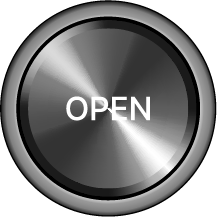
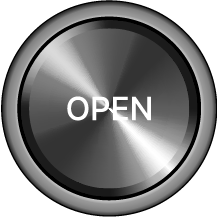
add project descriptions, multi-select industries/tools filtering, and expand project library
- Project.industry -> industries: string[] and new tools: string[] field,
  both wired into ProjectBrowser's filters (multi-select, any-match) and
  displayed as pills on RecordCrate cards and the hover preview
- Add a Tools & Process filter section alongside Industry and Year
- Wire the description field through instead of hardcoded placeholder text
- Fix 1px export misalignment on button-open-2/3/4.png (originals kept in
  public/images/nav buttons/_backup/)
- Expand data/projects.ts with additional project entries

diff --git a/components/home/ProjectBrowser.tsx b/components/home/ProjectBrowser.tsx
@@ -8,29 +8,44 @@ import { useBandLayout, GAP } from "./useBandLayout";
 export default function ProjectBrowser() {
   const [search, setSearch] = useState("");
   const [industry, setIndustry] = useState<string[]>([]);
+  const [tool, setTool] = useState<string[]>([]);
   const [year, setYear] = useState<number[]>([]);
   const [hoveredProject, setHoveredProject] = useState<Project | null>(null);
   const layout = useBandLayout();
 
-  const industries = useMemo(() => Array.from(new Set(projects.map((p) => p.industry))), []);
+  const industries = useMemo(
+    () => Array.from(new Set(projects.flatMap((p) => p.industries))),
+    []
+  );
+  // Tools/software/processes is the one filter category expected to grow
+  // long as more projects are added — same flex-wrap pill treatment as
+  // Industry, which already scales to any number of options by wrapping to
+  // more rows rather than needing a different widget.
+  const tools = useMemo(() => Array.from(new Set(projects.flatMap((p) => p.tools))), []);
   const years = useMemo(
     () => Array.from(new Set(projects.map((p) => p.year))).sort((a, b) => b - a),
     []
   );
 
-  const filtersActive = search.trim() !== "" || industry.length > 0 || year.length > 0;
+  const filtersActive =
+    search.trim() !== "" || industry.length > 0 || tool.length > 0 || year.length > 0;
 
   const matchedProjects = projects.filter((p) => {
     const matchesSearch = p.title.toLowerCase().includes(search.toLowerCase());
-    const matchesIndustry = industry.length === 0 || industry.includes(p.industry);
+    const matchesIndustry =
+      industry.length === 0 || industry.some((sel) => p.industries.includes(sel));
+    const matchesTool = tool.length === 0 || tool.some((sel) => p.tools.includes(sel));
     const matchesYear = year.length === 0 || year.includes(p.year);
-    return matchesSearch && matchesIndustry && matchesYear;
+    return matchesSearch && matchesIndustry && matchesTool && matchesYear;
   });
 
   const matchedSlugs = new Set(matchedProjects.map((p) => p.slug));
 
   const toggleIndustry = (ind: string) =>
     setIndustry((prev) => (prev.includes(ind) ? prev.filter((i) => i !== ind) : [...prev, ind]));
+
+  const toggleTool = (t: string) =>
+    setTool((prev) => (prev.includes(t) ? prev.filter((v) => v !== t) : [...prev, t]));
 
   const toggleYear = (y: number) =>
     setYear((prev) => (prev.includes(y) ? prev.filter((v) => v !== y) : [...prev, y]));
@@ -97,6 +112,25 @@ export default function ProjectBrowser() {
           </div>
 
           <div className="flex flex-col gap-2">
+            <p className="text-xs uppercase tracking-widest text-white/50">Tools &amp; Process</p>
+            <div className="flex flex-wrap gap-2">
+              {tools.map((t) => (
+                <button
+                  key={t}
+                  onClick={() => toggleTool(t)}
+                  className={`px-3 py-1 rounded-full text-sm border ${
+                    tool.includes(t)
+                      ? "bg-white text-black border-white"
+                      : "border-white/30 text-white/70"
+                  }`}
+                >
+                  {t}
+                </button>
+              ))}
+            </div>
+          </div>
+
+          <div className="flex flex-col gap-2">
             <p className="text-xs uppercase tracking-widest text-white/50">Year</p>
             <div className="flex flex-wrap gap-2">
               {years.map((y) => (
@@ -137,12 +171,17 @@ export default function ProjectBrowser() {
               <>
                 <p className="text-xl font-medium text-white">{hoveredProject.title}</p>
                 <p className="mt-2 text-sm text-zinc-400 leading-relaxed">
-                  Add a short project description here.
+                  {hoveredProject.description}
                 </p>
                 <div className="mt-3 flex flex-wrap gap-2">
-                  <span className="px-2 py-0.5 rounded-full border border-white/30 text-xs text-white/70">
-                    {hoveredProject.industry}
-                  </span>
+                  {hoveredProject.industries.map((ind) => (
+                    <span
+                      key={ind}
+                      className="px-2 py-0.5 rounded-full border border-white/30 text-xs text-white/70"
+                    >
+                      {ind}
+                    </span>
+                  ))}
                   <span className="px-2 py-0.5 rounded-full border border-white/30 text-xs text-white/70">
                     {hoveredProject.year}
                   </span>

diff --git a/data/projects.ts b/data/projects.ts
@@ -1,16 +1,30 @@
 export type Project = {
   slug: string;
   title: string;
-  industry: string;
+  industries: string[];
+  tools: string[];
   year: number;
   image: string;
+  description: string;
 };
 
 export const projects: Project[] = [
-  { slug: "helmet(1)", title: "Helmet (1)", industry: "Consumer Electronics", year: 2025, image: "/images/hero/project-1.jpg" },
-  { slug: "mx-switch", title: "MX Switch", industry: "Home Appliances", year: 2024, image: "/images/hero/project-2.png" },
-  { slug: "goh", title: "GOH", industry: "Mobility", year: 2023, image: "/images/hero/project-3.png" },
-  { slug: "gravity-bar", title: "Gravity Bar", industry: "Furniture", year: 2023, image: "/images/hero/project-4.jpg" },
-  { slug: "l1-lamp", title: "L1 Lamp", industry: "Consumer Electronics", year: 2022, image: "/images/hero/project-5.jpg" },
-  { slug: "photography", title: "Photography", industry: "Lighting", year: 2022, image: "/images/hero/photography.jpg" },
+  { slug: "helmet(1)", title: "Helmet (1)", industries: ["Electronics", "Safety Equipment"], tools: ["Add a tool or process"], year: 2026, image: "/images/hero/project-1.jpg", description: "Add a short project description here." },
+  { slug: "mx-switch", title: "MX Switch", industries: ["Electronics"], tools: ["Add a tool or process"], year: 2026, image: "/images/hero/project-2.png", description: "Add a short project description here." },
+  { slug: "goh", title: "GOH", industries: ["Branding"], tools: ["Add a tool or process"], year: 2025, image: "/images/hero/project-3.png", description: "Add a short project description here." },
+  { slug: "gravity-bar", title: "Gravity Bar", industries: ["Furniture"], tools: ["Add a tool or process"], year: 2026, image: "/images/hero/project-4.jpg", description: "Add a short project description here." },
+  { slug: "l1-lamp", title: "L1 Lamp", industries: ["Furniture", "Electronics"], tools: ["Add a tool or process"], year: 2025, image: "/images/hero/project-5.jpg", description: "Add a short project description here." },
+  { slug: "photography", title: "Photography", industries: ["Photography"], tools: ["Add a tool or process"], year: 0, image: "/images/hero/photography.jpg", description: "Add a short project description here." },
+
+  // Non-hero projects (not in the heroSlides array) can be added here as well, if desired.
+
+  { slug: "ovis", title: "Ovis", industries: ["Tools"], tools: ["Add a tool or process"], year: 2026, image: "/images/hero/project-6.jpg", description: "Add a short project description here." },
+  { slug: "sanctuary bench", title: "Sanctuary Bench", industries: ["Furniture"], tools: ["Add a tool or process"], year: 2025, image: "/images/hero/project-7.jpg", description: "Add a short project description here." },
+  { slug: "rotnel toolbox", title: "Rotnel Toolbox", industries: ["Tools"], tools: ["Add a tool or process"], year: 2026, image: "/images/hero/project-8.jpg", description: "Add a short project description here." },
+  { slug: "goh-w6rst", title: "GOH x W6rst", industries: ["Branding"], tools: ["Add a tool or process"], year: 2025, image: "/images/hero/project-6.jpg", description: "Add a short project description here." },
+  { slug: "outlines", title: "Outlines Magazine", industries: ["Publishing"], tools: ["Add a tool or process"], year: 2026, image: "/images/hero/project-7.jpg", description: "Add a short project description here." },
+  { slug: "gradus bag", title: "Gradus Bag", industries: ["Softgoods"], tools: ["Add a tool or process"], year: 2026, image: "/images/hero/project-8.jpg", description: "Add a short project description here." },
+  { slug: "ambush", title: "Ambush", industries: ["Tools"], tools: ["Add a tool or process"], year: 2026, image: "/images/hero/project-6.jpg", description: "Add a short project description here." },
+  { slug: "aloe-vera-rind", title: "Valorization of Aloe Vera Rind", industries: ["Tools"], tools: ["Add a tool or process"], year: 2026, image: "/images/hero/project-7.jpg", description: "Add a short project description here." },
+  { slug: "wallace", title: "Wallace", industries: ["Furniture"], tools: ["Add a tool or process"], year: 2026, image: "/images/hero/project-8.jpg", description: "Add a short project description here." },
 ];

diff --git a/components/home/RecordCrate.tsx b/components/home/RecordCrate.tsx
@@ -253,13 +253,16 @@ export default function RecordCrate({
                 }}
               >
                 <p className="font-medium text-white">{p.title}</p>
-                <p className="mt-1 text-sm text-zinc-400 leading-relaxed">
-                  Add a short project description here.
-                </p>
+                <p className="mt-1 text-sm text-zinc-400 leading-relaxed">{p.description}</p>
                 <div className="mt-3 flex flex-wrap gap-2">
-                  <span className="px-2 py-0.5 rounded-full border border-white/30 text-xs text-white/70">
-                    {p.industry}
-                  </span>
+                  {p.industries.map((ind) => (
+                    <span
+                      key={ind}
+                      className="px-2 py-0.5 rounded-full border border-white/30 text-xs text-white/70"
+                    >
+                      {ind}
+                    </span>
+                  ))}
                   <span className="px-2 py-0.5 rounded-full border border-white/30 text-xs text-white/70">
                     {p.year}
                   </span>

diff --git a/data/heroSlides.ts b/data/heroSlides.ts
@@ -8,7 +8,7 @@ export const heroSlides: HeroSlide[] = [
   
   { image: "/images/hero/project-1.jpg", label: "helmet(1)", projectSlug: "helmet(1)" },
   { image: "/images/hero/project-2.png", label: "MX SWITCH", projectSlug: "mx-switch" },
-  { image: "/images/hero/project-3.png", label: "GOH", projectSlug: "goh" },
+  { image: "/images/hero/project-3.png", label: "FUK U GOH", projectSlug: "goh" },
   { image: "/images/hero/project-4.jpg", label: "GRAVITY BAR", projectSlug: "gravity-bar" },
   { image: "/images/hero/project-5.jpg", label: "L1 LAMP", projectSlug: "l1-lamp" },
   { image: "/images/hero/photography.jpg", label: "PHOTOGRAPHY", projectSlug: "photography" },